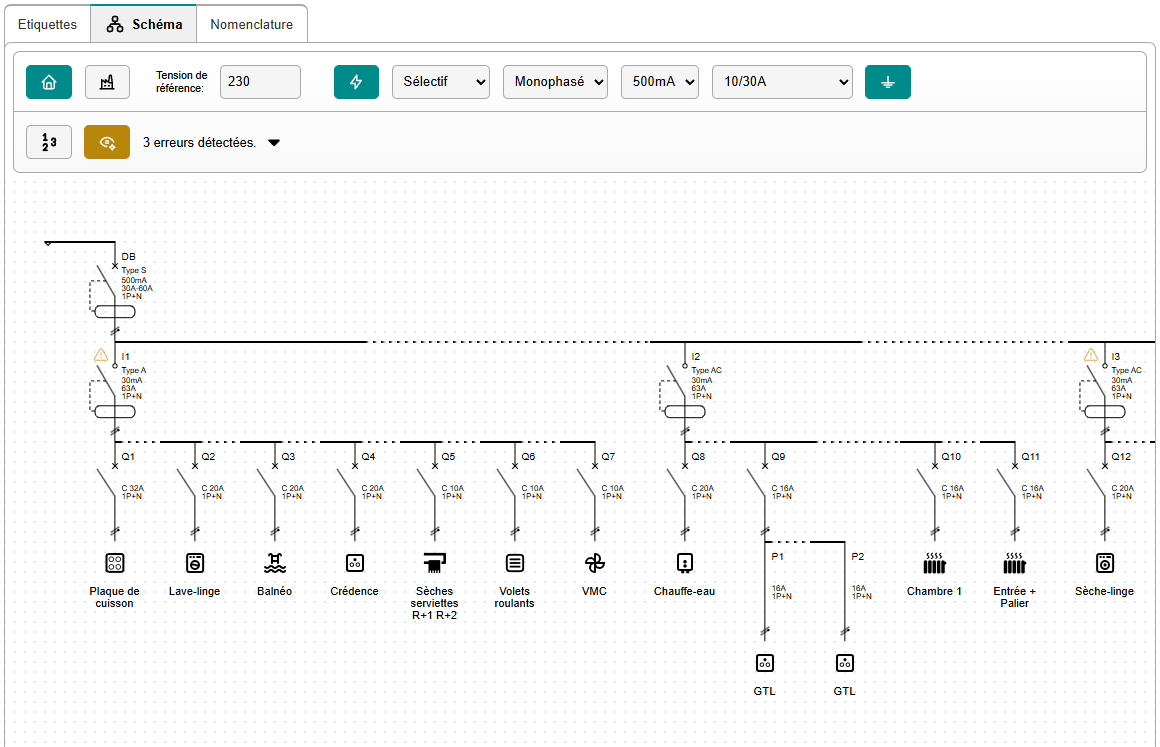
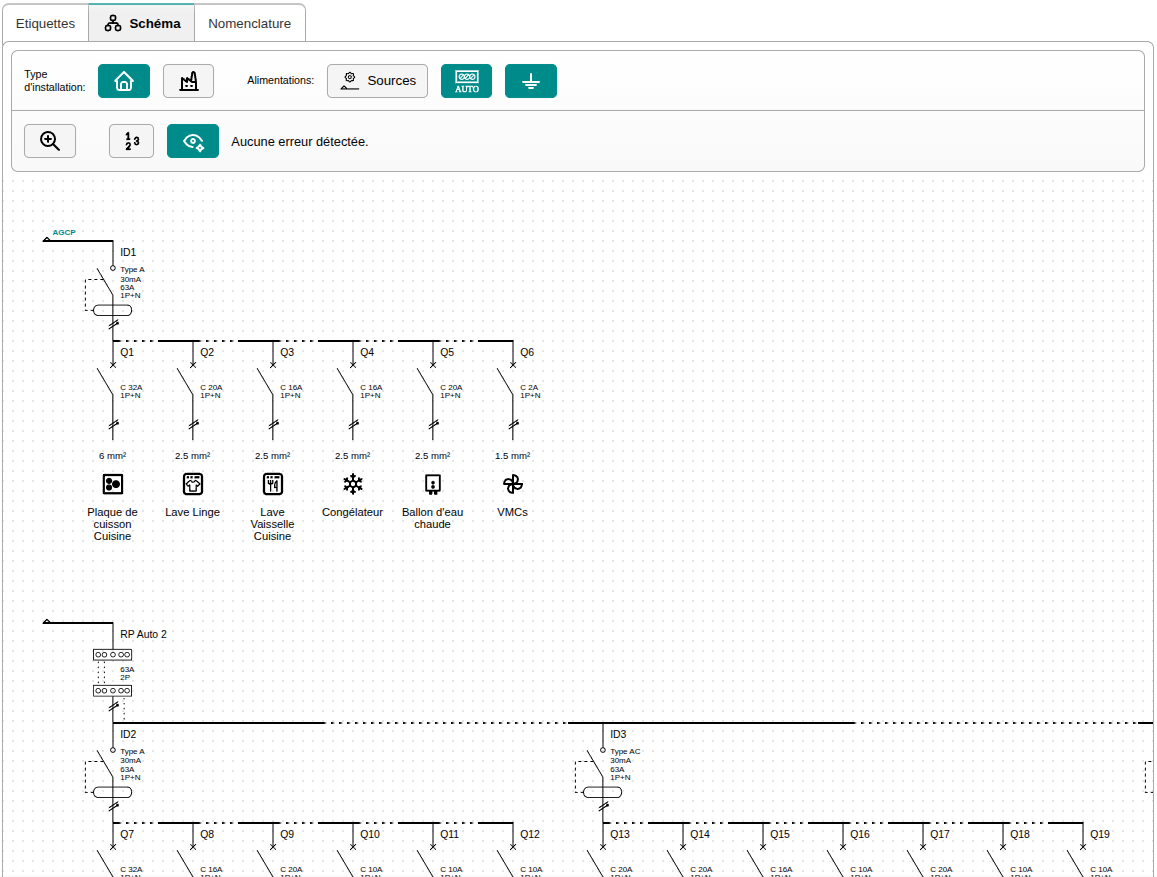
Mise à jour de la documentation.

diff --git a/src/components/ThemeEngine.jsx b/src/components/ThemeEngine.jsx
@@ -331,10 +331,11 @@ function CustomTheme({ item, data, style }) {
 			)}
 
 			{isInvisible && (
-				<div style={styles.id} data-order={"top"}>
-					<p style={styles.idInvisibleContent}>
-						Espace invisible utilisé par {item.id}
-					</p>
+				<div
+					style={{ ...styles.id, ...styles.idInvisibleContent }}
+					data-order={"top"}
+				>
+					<p>Espace invisible utilisé par {item.id}</p>
 				</div>
 			)}
 

diff --git a/README.md b/README.md
@@ -604,11 +604,68 @@ ou non le <a href="#moniteur-de-surveillance">Moniteur de surveillance</a>.
 
 L'application vous permet d'identifier la ou les sources alimentant les différentes sections de votre tableau électrique. Que ce soit un disjonteur de branchement, un répartiteur ou des panneaux photo-voltaïque, une option pour les définir est à votre disposition via ce bouton:
 
-![Schéma unifilaire](./docs/_schema_parents_edit.png)
+![Schéma unifilaire - Edition des sources](./docs/_schema_parents_edit.png)
 
 En cliquant sur ce bouton, vous pourrez ajouter et / ou supprimer autant de sources que vous le souhaitez:
 
-![Schéma unifilaire](./docs/_schema_parents_editor.png)
+![Schéma unifilaire - Editeur de sources](./docs/_schema_parents_editor.png)
+
+Il ne vous restera plus qu'à choisir votre source comme parent d'un module !
+
+![Schéma unifilaire - Sélecteur d'une source](./docs/_schema_parents_sources.png)
+
+
+#### Les répartiteurs
+
+Pour connecter plusieurs modules à un parent, il est d'usage d'utiliser des borniers de répartition. C'est borniers sont parfois déja présent au sein d'une enveloppe, mais peuvent être ajoutés à tout moment. Il ne sont pas visible depuis la façade de l'enveloppe et n'ont de rôle que la répartitions des alimentations d'un lot de modules.
+
+Tiquettes vous propose de les intégrer de différentes manières.
+
+##### Tout d'adord, coté étiquettes
+
+Un répartiteur est un module de taille variable, parfois installé sur un rail DIN mais très souvent invisible. C'est pourquoi, Tiquettes propose désormais la possibilité d'ajouter un module de type "Element invisible" !
+
+![Elements invisibles](./docs/_labels_hidden.png)
+
+Comme vous le constatez, le module est représenté différement des autres, le thème en cours n'est pas appliqué.
+
+
+> <img src="./docs/info-circle.svg" width="16" height="16" /> <b>Bon à savoir</b>
+>
+> Lors de l'impression, tous les modules définis comme invisibles ne seront pas représentés !
+> 
+
+##### Coté schéma unifilaire
+
+Un répartiteur peut être un module que vous ajoutez lors de la réalisation de votre projet. C'est pourquoi, pour plus de clarté dans la représentation de votre schéma unifilaire, vous pouvez l'ajouter manuellement:
+
+![Schéma unifilaire - Répartiteur](./docs/_schema_rep.png)
+
+Il deviendra donc un parent possible pour tous les autres modules que vous ajouterez !
+
+![Schéma unifilaire - Répartition](./docs/_schema_rep_draw.png)
+
+##### Répartition automatique
+
+Les borniers de répartitions peuvent parfois être en dehors des rails DIN et donc ne seront pas ajoutés à vos étiquettes (les borniers rouge et bleu dans certaines enveloppes par exemple). Toutefois, ils sont présents et utilisés, il faut donc les représenter. De plus, la norme NFC 15-100 impose une limite au nombre de conducteurs raccordés ensemble dans la borne d'un module, sans compter un mélange interdit des sections de chacun de ces conducteurs.
+
+Pour palier à tout celà Tiquettes, propose désormais l'ajout automatique de borniers dans votre schéma unifilaire.
+
+Une fois activée, cette fonctionnalité ajoutera autmatiquent comme parent, un répartiteur de branchement, à tous les modules possédant la même source d'alimentation ! Pratique, non ?
+
+Activer / Désactiver l'ajout automatique de répartiteurs :
+
+![Schéma unifilaire - Répartiteur automatique](./docs/_schema_rep_auto.png)
+
+Prenons le cas suivant. ID2 et ID3 ont la même source d'alimentation (Ma source), par défaut l'application va les représenter comme ceci:
+
+![Schéma unifilaire - Répartition non autmatique](./docs/_schema_source_noauto.png)
+
+Le soucis, c'est que dans la réalité, ID2 et ID3 sont soit peignés verticalement, soit raccordés aux borniers rouge et bleu du chassis sur lequel ils sont installés. Tiquettes vous propose donc de representer ce raccordement automatiquement. En activant l'option de répartition automatique, voici ce que l'application représentera:
+
+![Schéma unifilaire - Répartition non autmatique](./docs/_schema_source_auto.png)
+
+Plus sympa, non ? :-)
 
 
 
@@ -792,7 +849,7 @@ Si vous souhaitez nous soutenir, c'est par ici: [Faire un don](https://www.tique
 
 ### 🐛 Mais aussi pour toutes les remontées de [BUGS](https://github.com/pantaflex44/Tiquettes/issues?q=is%3Aissue) (les [issues](https://github.com/pantaflex44/Tiquettes/issues?q=is%3Aissue)) , et vos participations dans les [discussions](https://github.com/pantaflex44/Tiquettes/discussions)
 
-[zoliaaz](https://github.com/zoliaaz), [cnaslain](https://github.com/cnaslain), [ntarocco](https://github.com/ntarocco), [jlecour](https://github.com/jlecour), [plouflechien](https://github.com/plouflechien), [Benoit485](https://github.com/Benoit485), [F4FXL](https://github.com/F4FXL), [dough29](https://github.com/dough29), [karimLG](https://github.com/karimLG), [fmdl](https://github.com/fmdl), [ekozan](https://github.com/ekozan), [Starlight58](https://github.com/Starlight58), [Trinakria23](https://github.com/Trinakria23), [Boubigloubi](https://github.com/Boubigloubi), [martinlbb](https://github.com/martinlbb), [rems64](https://github.com/rems64), [Biodom13](https://github.com/Biodom13), [mmnlfrrr](https://github.com/mmnlfrrr), [LeG2](https://github.com/LeG2), [misterg94](https://github.com/misterg94), [Fanka14](https://github.com/Fanka14), [xhark](https://github.com/blogmotion), [yar0d](https://github.com/yar0d), [BenoitCier](https://github.com/BenoitCier), [gmergoux](https://github.com/gmergoux), [xbeaudouin](https://github.com/xbeaudouin)
+[zoliaaz](https://github.com/zoliaaz), [cnaslain](https://github.com/cnaslain), [ntarocco](https://github.com/ntarocco), [jlecour](https://github.com/jlecour), [plouflechien](https://github.com/plouflechien), [Benoit485](https://github.com/Benoit485), [F4FXL](https://github.com/F4FXL), [dough29](https://github.com/dough29), [karimLG](https://github.com/karimLG), [fmdl](https://github.com/fmdl), [ekozan](https://github.com/ekozan), [Starlight58](https://github.com/Starlight58), [Trinakria23](https://github.com/Trinakria23), [Boubigloubi](https://github.com/Boubigloubi), [martinlbb](https://github.com/martinlbb), [rems64](https://github.com/rems64), [Biodom13](https://github.com/Biodom13), [mmnlfrrr](https://github.com/mmnlfrrr), [LeG2](https://github.com/LeG2), [misterg94](https://github.com/misterg94), [Fanka14](https://github.com/Fanka14), [xhark](https://github.com/blogmotion), [yar0d](https://github.com/yar0d), [BenoitCier](https://github.com/BenoitCier), [gmergoux](https://github.com/gmergoux), [xbeaudouin](https://github.com/xbeaudouin), Yannis P., Marc T., [Azema](https://github.com/Azema), [sylvainetisa-bot](https://github.com/sylvainetisa-bot)
 
 ### Un remerciement spécial pour vos partages et les articles / messages promouvant Tiquettes.fr sur la toile
 

diff --git a/CHANGELOG.md b/CHANGELOG.md
@@ -1,6 +1,6 @@
 # ChangeLog
 
-## [2.2.9] - 2026-10-13
+## [2.2.9] - 2026-10-18
 
 ### Corrections
 
